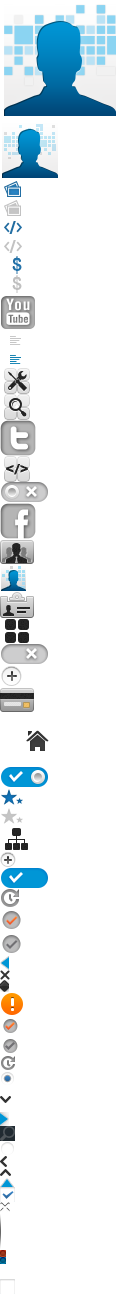
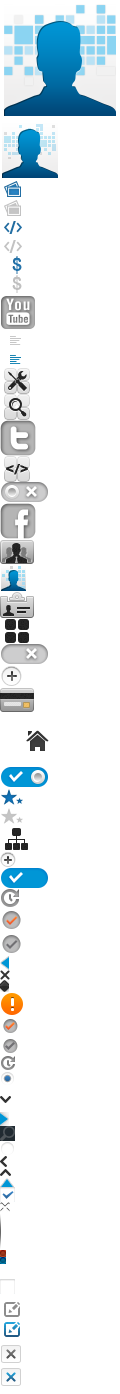
Style updates for approvals

Changed region(s): [[0.0, 0.0, 0.975, 1.0], [0.45, 0.0, 0.525, 0.0309], [0.55, 0.0, 0.575, 0.0309]]

diff --git a/src/main/webapp/resources/stylesheets/login.css b/src/main/webapp/resources/stylesheets/login.css
@@ -387,6 +387,7 @@ input#password {
   margin-bottom: 10px;
   font-size: 11px;
   text-transform: uppercase;
+  color:#333;
 }
 
 input[type=checkbox] {
@@ -514,32 +515,9 @@ a#vendor:hover {
   color: #0099D6;
 }
 
-#approvals-list-container {
-	display: none;
-	margin: 0 0 20px 0;
-}
-
-.app-approval-container {
-  background: none repeat scroll 0 0 rgba(255,255,255,0.5);
-  -moz-border-radius: 5px;
-  -webkit-border-radius: 5px;
-  border-radius: 5px;
-  overflow: hidden;
-  text-shadow: 0 1px 0 rgba(255,255,255,0.75);
-  color: #333333;
-  padding: 20px 30px 17px 30px;
-  margin: 0 0 10px 0;
-  border: 1px solid transparent;
-}
-
-.app-approval-container:hover {
-  border: 1px solid #0099D6;
-  -webkit-box-shadow: 0 0 10px rgba(0,0,0,0.1);
-  box-shadow: 0 0 10px rgba(0,0,0,0.1);
-}
-
-.app-approval-title {
-	width: 900px;
+.approvals-list-container {
+  float: right;
+  width: 838px;
 }
 
 .inactive {
@@ -588,4 +566,109 @@ img.gsc-branding-img,img.gsc-branding-img-noclear,img.gcsc-branding-img,img.gcsc
 
 a.allrequests {
 	display: none;
+}
+
+.icon-div {
+  display: none;
+  height:10px;
+  float: right;
+  width: 60px;
+}
+
+.delete-icon {
+  display: none;
+  background: url(../images/icons.png) 0 -1344px no-repeat;
+  width: 22px;
+  height: 21px;
+  cursor: pointer;
+  border: none;
+}
+
+.delete-icon:hover {
+  background: url(../images/icons.png) 0 -1367px no-repeat;
+  width: 22px;
+  height: 21px;
+  cursor: pointer;
+  border: none;
+}
+
+.edit-icon {
+  display: none;
+  background: url(../images/icons.png) 0 -1300px no-repeat;
+  width: 27px;
+  height: 21px;
+  cursor: pointer;
+  border: none;
+}
+
+.edit-icon:hover {
+  background: url(../images/icons.png) 0 -1320px no-repeat;
+  width: 27px;
+  height: 21px;
+  cursor: pointer;
+  border: none;
+}
+
+.none {
+  display: none;
+}
+
+.block {
+  display: block;
+}
+
+.app-approval-container1 {
+  background: none repeat scroll 0 0 rgba(255,255,255,0.5);
+  -moz-border-radius: 5px;
+  -webkit-border-radius: 5px;
+  border-radius: 5px;
+  overflow: hidden;
+  text-shadow: 0 1px 0 rgba(255,255,255,0.75);
+  color: #333333;
+  padding: 20px 30px 17px 30px;
+  margin: 0 0 10px 0;
+  border: 1px solid transparent;
+}
+
+.app-approval-container1:hover {
+  border: 1px solid #0099D6;
+  text-decoration: none;
+}
+
+.app-approval-container2 {
+  background: none repeat scroll 0 0 rgba(255,255,255,0.5);
+  -moz-border-radius: 5px;
+  -webkit-border-radius: 5px;
+  border-radius: 5px;
+  overflow: hidden;
+  text-shadow: 0 1px 0 rgba(255,255,255,0.75);
+  color: #333333;
+  padding: 20px 30px 17px 30px;
+  margin: 0 0 10px 0;
+  border: 1px solid transparent;
+}
+
+.app-approval-container2:hover {
+  border: 1px solid #0099D6;
+  cursor: pointer;
+}
+
+a#first:hover, a#second:hover {
+  text-decoration: none;
+}
+
+.linklike {
+  color:#0099D6;
+}
+
+#firstlink:hover, .app-approval-container1 a:hover, .app-approval-container2 a:hover {
+  text-decoration: none;
+}
+
+.row {
+  height: 21px;
+}
+
+#firstlink {
+  cursor: pointer;
 }
